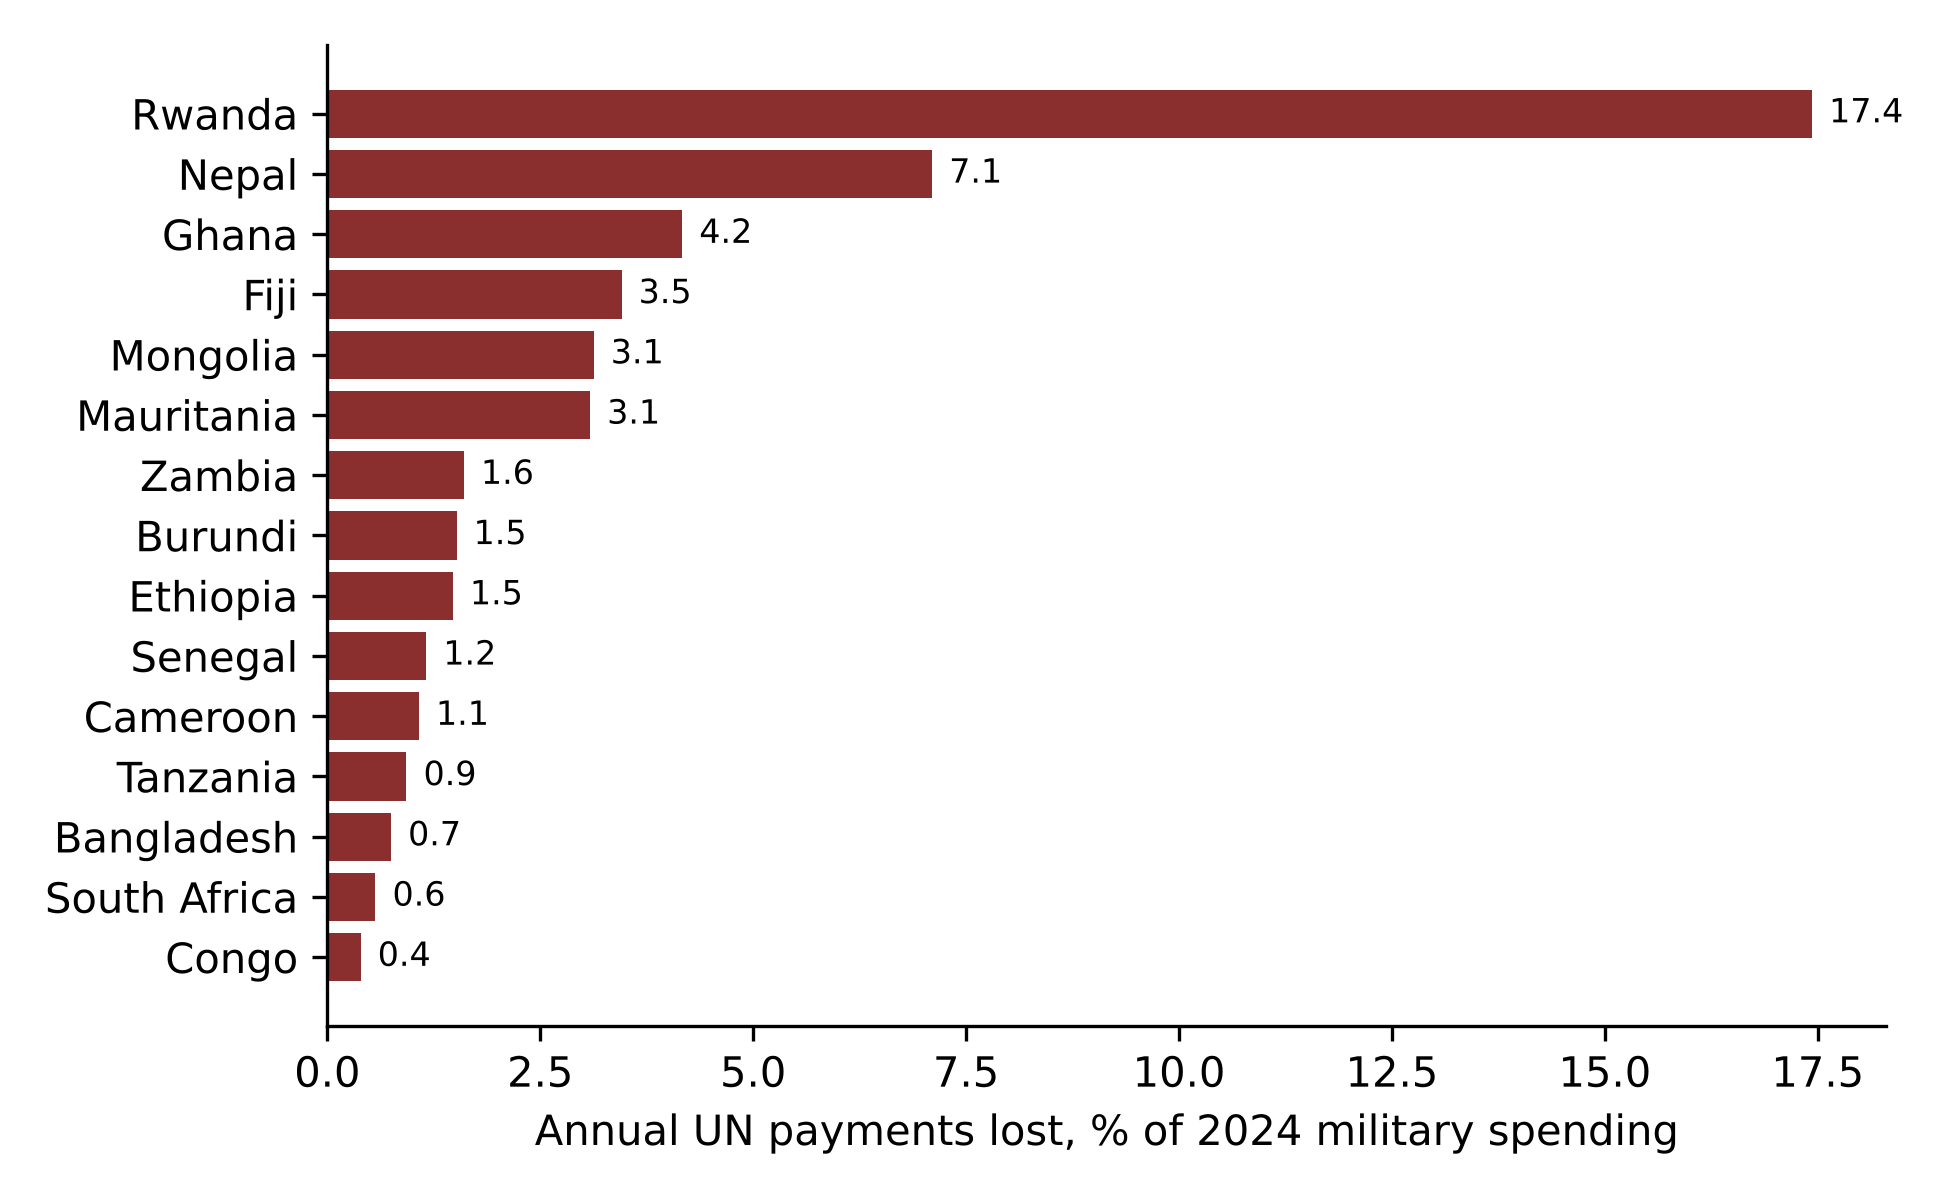
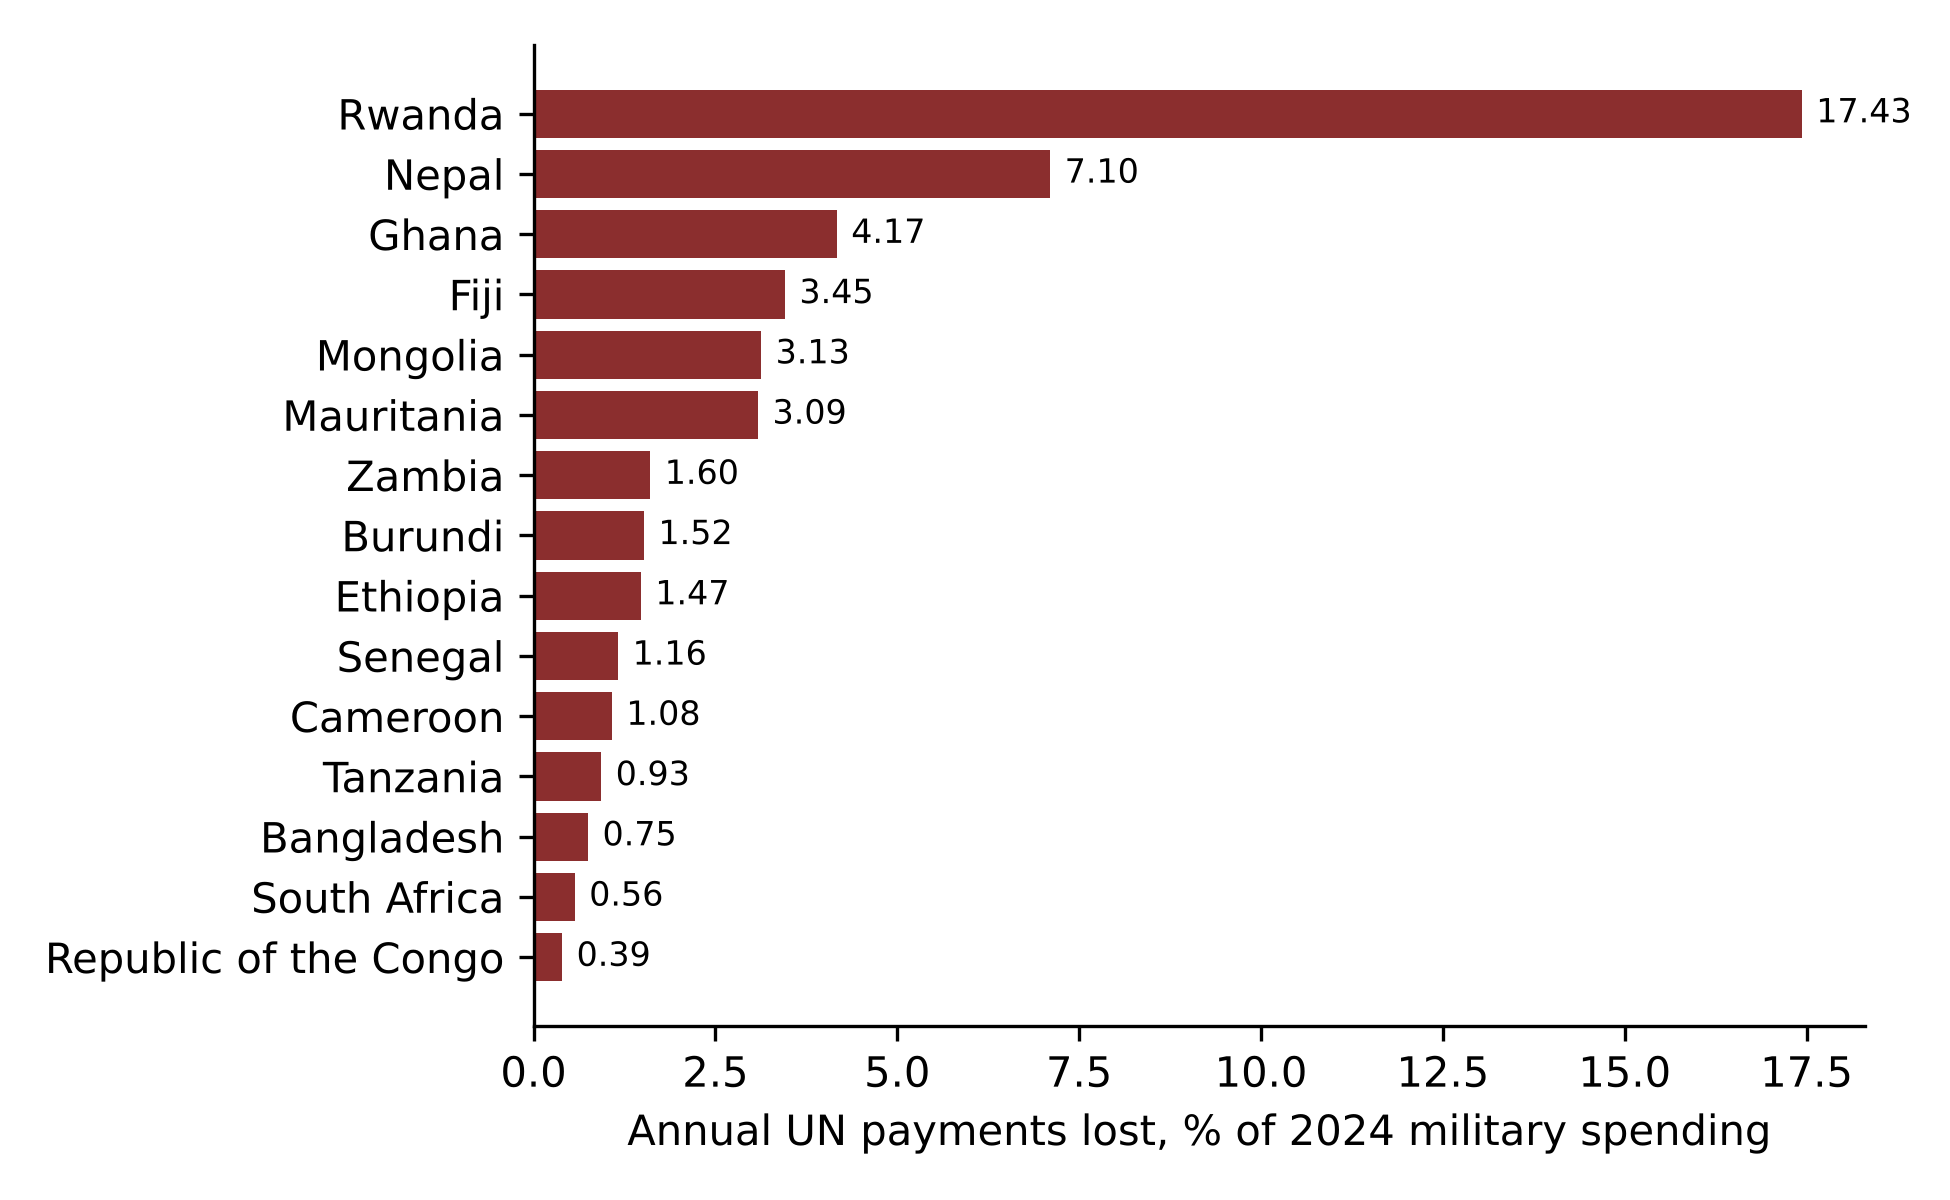
Fixes after an independent check of the results
Ties at tenth place now share the rank (Ethiopia and Tanzania), the size quadratic gets a joint test, H3 is also reported with standard errors clustered by mission and a wild cluster bootstrap (X10), clearer labels in Figures 2 to 4, the correct data license, and README wording.

Changed region(s): [[0.0308, 0.0617, 0.9538, 0.9558], [0.4615, 0.1233, 0.5846, 0.185], [0.9231, 0.0617, 0.9846, 0.1233]]

diff --git a/code/02_extra_checks.py b/code/02_extra_checks.py
@@ -3,17 +3,22 @@
 Each is labelled as such in tables/extra_checks.csv and in the paper:
   X1  H2 with ln P_c0 (contingent size) as a control: is it dependence or just size?
   X2  H2 without the four countries with D of 10% or more (influence of the most dependent group)
-  X3  H2 leaving out one country at a time among the 10 largest weights (influence)
+  X3  H2 leaving out one country at a time among the 10 largest contributors by June 2025 personnel
+      (11 countries: Ethiopia and Tanzania tie for tenth place with 1,533 each; ties share the rank)
   X4  H2 without South Africa, whose contingent fell by 93%
   X5  H1 without South Africa (diagnostic for H1's low R-squared)
   X6  Placebo C3 with UNSOM and its successor UNTMIS (S/RES/2753 (2024)) treated as one mission;
       the plan's literal definitions treat UNSOM as closing and UNTMIS as new
-  X7  The cut by contributor size (top 10 by June 2025 personnel; other countries with 100 or more;
-      20 to 99; under 20), and a weighted quadratic in ln P_c0, to compare with Coleman and Li (2026)
+  X7  The cut by contributor size (the 10 largest by June 2025 personnel, 11 countries because of the tie;
+      other countries with 100 or more; 20 to 99; under 20), and a weighted quadratic in ln P_c0 with a
+      joint Wald test of its two terms, to compare with Coleman and Li (2026)
   X8  C5 with dependence D measured from all missions (in C5 every measure comes from the remaining missions)
   X9  C5 excluding only UNAMI, UNMHA and UNVMC, where the Council's decision itself removed personnel in the
       window; MINUSCA's and UNMISS's new ceilings were above their strength when adopted
   (X8 and X9 were decided before C5 was run.)
+  X10 H3 with standard errors clustered by mission (CR1, t with G - 1 degrees of freedom) and a wild cluster
+      bootstrap p-value (null imposed, Webb six-point weights, 9,999 draws, fixed seed); the plan ruled out
+      clustering because there are only ten missions
 
 Usage: python code/02_extra_checks.py  (after code/01_analysis.py)
 """
@@ -45,7 +50,8 @@ s2 = s[s["D"] < 10]
 r = fit(s2, ["lnD"])
 rows.append({"check": "X2 H2 without D >= 10%", "coef_lnD": r.params["lnD"], "se": r.bse["lnD"], "p": r.pvalues["lnD"], "n": int(r.nobs),
              "dropped": ",".join(sorted(s[s["D"] >= 10].index))})
-for iso in s.sort_values("x0", ascending=False).head(10).index:
+TOP10 = s.index[s["x0"].rank(method="min", ascending=False) <= 10]  # ties share the rank: 11 countries
+for iso in s.loc[TOP10].sort_values("x0", ascending=False).index:
     r = fit(s.drop(index=iso), ["lnD"])
     rows.append({"check": f"X3 H2 without {iso}", "coef_lnD": r.params["lnD"], "se": r.bse["lnD"], "p": r.pvalues["lnD"], "n": int(r.nobs)})
 r = fit(s.drop(index="ZAF"), ["lnD"])
@@ -78,7 +84,7 @@ for x in res:
 
 # X7: size groups and a quadratic in ln P0
 a7 = cty[cty["x0"] > 0].sort_values("x0", ascending=False).copy()
-a7["rank"] = np.arange(1, len(a7) + 1)
+a7["rank"] = a7["x0"].rank(method="min", ascending=False)  # ties share the rank (Ethiopia and Tanzania, 10th)
 a7["size_group"] = np.select(
     [a7["rank"] <= 10, a7["x0"] >= 100, a7["x0"] >= 20],
     ["1 top 10", "2 other, 100 or more", "3 20 to 99"], default="4 under 20")
@@ -90,8 +96,10 @@ q["lnP0"] = np.log(q["x0"])
 q["lnP0sq"] = q["lnP0"] ** 2
 X = sm.add_constant(q[["lnP0", "lnP0sq"]].astype(float), has_constant="add")
 r = sm.WLS(q["pct"].astype(float), X, weights=q["x0"].astype(float)).fit(cov_type="HC1")
+wt = r.wald_test("lnP0 = 0, lnP0sq = 0", scalar=True)
 rows.append({"check": "X7 weighted quadratic in ln P0", "coef_lnP0": r.params["lnP0"], "p_lnP0": r.pvalues["lnP0"],
-             "coef_lnP0sq": r.params["lnP0sq"], "p_lnP0sq": r.pvalues["lnP0sq"], "n": int(r.nobs)})
+             "coef_lnP0sq": r.params["lnP0sq"], "p_lnP0sq": r.pvalues["lnP0sq"], "n": int(r.nobs),
+             "joint_chi2": float(wt.statistic), "joint_p": float(wt.pvalue)})
 
 # X8 and X9: variants of C5
 t0m, t1m, yrm = a.WINDOWS["main"]
@@ -104,6 +112,57 @@ for tag, excl, dfrom in [("X8 C5 with D from all missions", a.C5_MISSIONS, cty["
             rows.append({"check": f"{tag}: {x['test']}", "coef_lnD": x["coef"] if not x["test"].startswith("H1") else np.nan,
                          "slope_H1": x["coef"] if x["test"].startswith("H1") else np.nan,
                          "se": x["se"], "p": x["p"], "r2": x["r2"], "n": x["n"], "n_missions": x.get("n_missions", np.nan)})
+
+# X10: H3 with standard errors clustered by mission, and a wild cluster bootstrap
+cm0 = pd.read_csv(ROOT / "data" / "build" / "country_mission_main.csv")
+h = cm0[cm0["x0"] >= a.MIN_CELL].merge(cty[["D"]], left_on="iso3", right_index=True, how="left")
+h = h[h["D"].notna() & (h["D"] > 0)].copy()
+h["pct"] = 100 * (h["x1"] - h["x0"]) / h["x0"]
+h = h.reset_index(drop=True)
+fe = pd.get_dummies(h["mission"], prefix="fe", drop_first=True, dtype=float)
+Xu = sm.add_constant(pd.concat([pd.DataFrame({"x": np.log(h["D"])}), fe], axis=1), has_constant="add").astype(float)
+Xr = sm.add_constant(fe, has_constant="add").astype(float)
+y = h["pct"].astype(float).to_numpy()
+w = h["x0"].astype(float).to_numpy()
+groups = pd.factorize(h["mission"])[0]
+G = groups.max() + 1
+sw = np.sqrt(w)
+
+
+def cr1_t(yv):
+    """WLS of yv on Xu; returns the coefficient on x and its CR1 t statistic (clusters = missions)."""
+    Xt = Xu.to_numpy() * sw[:, None]
+    yt = yv * sw
+    XtX_inv = np.linalg.inv(Xt.T @ Xt)
+    b = XtX_inv @ Xt.T @ yt
+    e = yt - Xt @ b
+    meat = np.zeros((Xt.shape[1], Xt.shape[1]))
+    for g in range(G):
+        sg = Xt[groups == g].T @ e[groups == g]
+        meat += np.outer(sg, sg)
+    n, k = Xt.shape
+    adj = G / (G - 1) * (n - 1) / (n - k)
+    V = adj * XtX_inv @ meat @ XtX_inv
+    j = list(Xu.columns).index("x")
+    return b[j], b[j] / np.sqrt(V[j, j]), np.sqrt(V[j, j])
+
+
+b_hat, t_hat, se_hat = cr1_t(y)
+from scipy import stats
+p_cr1 = 2 * stats.t.sf(abs(t_hat), G - 1)
+# restricted model (null: coefficient on ln D is zero), weighted
+rr = sm.WLS(y, Xr, weights=w).fit()
+fit_r, e_r = rr.fittedvalues.to_numpy(), rr.resid.to_numpy()
+rng = np.random.default_rng(20261030)
+webb = np.array([-np.sqrt(1.5), -1.0, -np.sqrt(0.5), np.sqrt(0.5), 1.0, np.sqrt(1.5)])
+B = 9999
+t_star = np.empty(B)
+for i in range(B):
+    v = webb[rng.integers(0, 6, size=G)][groups]
+    t_star[i] = cr1_t(fit_r + e_r * v)[1]
+p_wcb = float(np.mean(np.abs(t_star) >= abs(t_hat)))
+rows.append({"check": "X10 H3 clustered by mission (CR1; wild cluster bootstrap)", "coef_lnD": b_hat, "se": se_hat,
+             "p": p_cr1, "p_wild_bootstrap": p_wcb, "n": len(h), "n_missions": int(G)})
 
 out = pd.DataFrame(rows)
 (ROOT / "tables").mkdir(exist_ok=True)

diff --git a/code/03_figures.py b/code/03_figures.py
@@ -46,6 +46,8 @@ mis = mis.sort_values("pct")
 fig, ax = plt.subplots(figsize=(6.5, 3.6))
 ax.barh(mis.index, mis["pct"], color=[ACCENT if p <= -20 else GREY for p in mis["pct"]])
 def pct_label(p):
+    if 0 < abs(p) < 1:  # one decimal for small changes, so -0.5% does not show as 0%
+        return ("−" if p < 0 else "") + f"{abs(p):.1f}%"
     v = round(p)
     return ("−" if v < 0 else "") + f"{abs(v):.0f}%"
 
@@ -72,11 +74,13 @@ X = sm.add_constant(np.log(s["D"]))
 r = sm.WLS(s["pct"], X, weights=s["x0"]).fit()
 xs = np.linspace(np.log(s["D"].min()), np.log(s["D"].max()), 50)
 ax.plot(np.exp(xs), r.params["const"] + r.params["D"] * xs, color=INK, lw=1.2)
-for iso in ["RWA", "NPL", "GHA", "BGD", "IND", "CHN", "ZAF", "PAK", "IDN", "URY"]:
+# Labels with a leader line where a plain label would sit on a neighbouring circle
+LEADER = {"PAK": (-4, 16), "URY": (-22, 10), "MWI": (0, 12)}  # offsets in points
+for iso in ["RWA", "NPL", "GHA", "BGD", "IND", "CHN", "ZAF", "PAK", "IDN", "URY", "MWI"]:
     if iso not in s.index:
         continue
-    if iso == "PAK":  # a leader line, so the label is not read as Morocco's circle next to it
-        ax.annotate(iso, (s.loc[iso, "D"], s.loc[iso, "pct"]), fontsize=7, textcoords="offset points", xytext=(-4, 16),
+    if iso in LEADER:
+        ax.annotate(iso, (s.loc[iso, "D"], s.loc[iso, "pct"]), fontsize=7, textcoords="offset points", xytext=LEADER[iso],
                     ha="center", arrowprops=dict(arrowstyle="-", lw=0.5, color="#555555", shrinkA=0, shrinkB=4))
     else:
         ax.annotate(iso, (s.loc[iso, "D"], s.loc[iso, "pct"]), fontsize=7, xytext=(4, 2), textcoords="offset points")
@@ -93,12 +97,13 @@ plt.close(fig)
 # Figure 4: burden relative to military spending, top 15
 b = cty[cty["B"].notna()].sort_values("B", ascending=False).head(15).copy()
 names = c.drop_duplicates("iso3").set_index("iso3")["country"]
-b["name"] = names.reindex(b.index).str.replace("United Republic of Tanzania", "Tanzania")
+b["name"] = (names.reindex(b.index).str.replace("United Republic of Tanzania", "Tanzania")
+             .replace({"Congo": "Republic of the Congo"}))
 b = b.iloc[::-1]
 fig, ax = plt.subplots(figsize=(6.5, 4.0))
 ax.barh(b["name"], b["B"], color=ACCENT)
 for i, v in enumerate(b["B"]):
-    ax.text(v + 0.2, i, f"{v:.1f}", va="center", fontsize=8)
+    ax.text(v + 0.2, i, f"{v:.2f}", va="center", fontsize=8)
 ax.set_xlabel("Annual UN payments lost, % of 2024 military spending")
 fig.tight_layout()
 fig.savefig(FIG / "fig4_burden.png", dpi=300)

diff --git a/README.md b/README.md
@@ -6,13 +6,13 @@ Between June 2025 and July 2026 the number of uniformed personnel in UN missions
 
 ## Main results
 
-- **The cut fell harder on the countries most dependent on UN payments.** A country whose payments were ten times larger relative to its military budget lost about 4.6 percentage points more of its personnel (coefficient on ln *D* = -2.01, 95% interval -2.94 to -1.07). About a third of this came from the missions such countries served in, and two-thirds from within-mission differences: within the same mission, their contingents were cut more.
+- **The cut fell harder on the countries most dependent on UN payments.** A country whose payments were ten times larger relative to its military budget lost about 4.6 percentage points more of its personnel (coefficient on ln *D* = -2.01, 95% interval -2.94 to -1.07). About a third of this came from the missions such countries served in, and two-thirds from within-mission differences: within the same mission, their contingents were cut more on average. At the level of country-mission cells this test is significant with heteroskedasticity-robust standard errors (p = 0.012) but not with standard errors clustered by mission (p = 0.146; wild cluster bootstrap p = 0.33), a check not in the plan.
 - **Missions explain little of the variation between countries.** The four largest missions were each cut by 24% to 33%, so the change predicted from a country's missions varies little; the weighted R² of the actual on the predicted change is 0.12, below the 0.5 the analysis plan set, so H1 fails.
 - **The money.** At the UN's standard rate of US$1,448 per person per month, payments owed to contributing governments fell by US$259.6 million a year. Rwanda's lost payments equal 17.4% of its 2024 military spending, Nepal's 7.1% and Ghana's 4.2%. Bangladesh's fell by US$28.0 million a year (0.75%).
-- **The largest contributors were not shielded.** The ten largest contributors in June 2025 lost 27.1% of their personnel, about the same as the other countries with 100 or more (26.5%); countries with fewer than 20 lost 15.7%. For 2010–2024, [Coleman and Li (2026)](https://doi.org/10.1080/13523260.2026.2704869) found the largest and the token contributors relatively shielded from downsizing.
-- **Checks.** The results hold from a September 2025 baseline, for troops and formed police units only, with a size control, and without South Africa or the most dependent countries. A placebo over the 13 months before the cut shows no dependence gradient. Without MINUSCA and UNMISS, whose ceilings the Security Council lowered during the window (check C5), the estimates keep their size but lose precision (H2 -1.91, p = 0.049; H3 -1.78, p = 0.134). Unweighted, the gradient is not significant: it is a feature of the large contingents.
+- **The largest contributors were not shielded** (a comparison added after the main results). The 11 largest contributors in June 2025 (Ethiopia and Tanzania tie for tenth place) lost 27.4% of their personnel, about the same as the other countries with 100 or more (26.0%); countries with fewer than 20 lost 15.7%. For 2010–2024, [Coleman and Li (2026)](https://doi.org/10.1080/13523260.2026.2704869) found the largest and the token contributors relatively shielded from downsizing.
+- **Checks.** The results hold from a September 2025 baseline and for troops and formed police units only, and a placebo over the 13 months before the cut shows no dependence gradient. In checks added after the main results they also hold with a size control and without South Africa or the most dependent countries. Without the five missions whose reductions the Security Council decided separately, among them MINUSCA and UNMISS (check C5), the estimates keep their size but lose precision (H2 -1.91, p = 0.049; H3 -1.78, p = 0.134). Unweighted, the gradient is not significant: it is a feature of the large contingents.
 
-The analysis plan was written and published before any of these results were computed: [`plan/analysis_plan.md`](plan/analysis_plan.md) (first commit of this repository).
+The analysis plan was written before any of these results were computed and is the first commit of this repository: [`plan/analysis_plan.md`](plan/analysis_plan.md). Its change log records everything added later.
 
 ## What is in this repository
 
@@ -21,7 +21,7 @@ The analysis plan was written and published before any of these results were com
 | [`plan/analysis_plan.md`](plan/analysis_plan.md) | The dated analysis plan: question, definitions, hypotheses, checks |
 | [`code/00_get_un_data.py`](code/00_get_un_data.py) | Rebuilds the UN personnel data with peacekeeping-tracker v1.0.0 (downloads the UN's files from the UN) |
 | [`code/01_analysis.py`](code/01_analysis.py) | The analysis set out in the plan |
-| [`code/02_extra_checks.py`](code/02_extra_checks.py) | Six checks added after the main results were seen (labelled as such in the paper and recorded in the plan's change log) |
+| [`code/02_extra_checks.py`](code/02_extra_checks.py) | Ten checks (X1 to X10) added after the main results were seen, labelled as such in the paper and recorded in the plan's change log |
 | [`code/03_figures.py`](code/03_figures.py) | The four figures |
 | [`data/worldbank/`](data/worldbank/) | World Bank military expenditure and GDP per capita files (CC BY 4.0), as downloaded on 29 October 2026 |
 | [`tables/`](tables/) | Summary tables: missions, categories, the 20 largest contributors, dependence groups, size groups, all regressions and checks |
@@ -34,7 +34,7 @@ The UN's terms of use allow its data to be downloaded for personal, non-commerci
 
 ## Reproduce it
 
-Needs Python 3.10 or later, git and an internet connection.
+Needs Python 3.10 or later, git and an internet connection. The results were produced with Python 3.13, pandas 3.0.5, NumPy 2.5.3, statsmodels 0.15.0 and Matplotlib 3.11.2.
 
 ```
 pip install -r requirements.txt
@@ -58,4 +58,4 @@ python code/03_figures.py
 
 ## License
 
-Code: MIT (see [`LICENSE`](LICENSE)). Tables, figures and text: CC BY 4.0. The World Bank files: CC BY 4.0. The summary tables are made from the UN's figures; please credit the UN as well.
+Code: MIT (see [`LICENSE`](LICENSE)). Tables, figures, results and text: CC BY 4.0 (see [`LICENSE-DATA`](LICENSE-DATA)). The World Bank files: CC BY 4.0. The summary tables are made from the UN's figures; please credit the UN as well.

diff --git a/plan/analysis_plan.md b/plan/analysis_plan.md
@@ -78,3 +78,4 @@ All tests are two-sided at the 5% level. Regressions are weighted least squares 
 - **30 October 2026, after the main results were seen.** No test, window, measure or check in sections 3 to 5 was changed. Added, and labelled in the paper as not in the plan: H2 with the logarithm of June 2025 personnel as a control; H2 without the four countries with *D* of 10% or more; H2 leaving out each of the ten largest contributors in turn; H1 and H2 without South Africa; and the placebo window (C3) with UNSOM and its successor UNTMIS counted as one mission (the mandate was transferred by Security Council resolution 2753 of 30 October 2024; the definitions above treat UNSOM as closing and UNTMIS as new). The p-values reported use the normal approximation, statsmodels' default for HC1 standard errors.
 - **30 October 2026, later the same day.** Added, also labelled as not in the plan: the cut by contributor size (the ten largest contributors in June 2025, other countries with 100 or more, 20 to 99, under 20) and a weighted quadratic in the logarithm of June 2025 personnel, to compare the result with Coleman and Li (2026).
 - **30 October 2026, before C5 was run.** C5's missions were identified from the Security Council's resolutions: MINUSCA (resolution 2800 (2025) lowered its ceilings), UNMISS (resolution 2820 (2026) lowered its troop ceiling), UNAMI (resolution 2732 (2024): final period to 31 December 2025), UNMHA (resolution 2813 (2026): final period to 31 March 2026) and UNVMC (resolution 2798 (2025) discontinued its ceasefire-monitoring expansion and its associated resources). UNIFIL and UNTMIS are not excluded: the resolutions that end them (2790 (2025) and 2809 (2025)) take effect after the window. As coded before any result, C5 computes every measure, including *D*, from the remaining missions. Two variants, not in the plan, were added before C5 was run: *D* measured from all missions, and excluding only UNAMI, UNMHA and UNVMC, where the Council's decision itself removed personnel during the window (MINUSCA's and UNMISS's new ceilings were above their strength when adopted).
+- **30 October 2026, after an independent check of the results.** Ethiopia and Tanzania tie for tenth place in June 2025 (1,533 each), so the "ten largest contributors" in the leave-one-out check and the size groups now include both (11 countries; ties share the rank), where the earlier code had kept one of them by sort order. Added, also labelled as not in the plan: a joint Wald test of the two size terms in the quadratic, and H3 with standard errors clustered by mission and a wild cluster bootstrap p-value, which the plan did not use because there are only ten missions.
